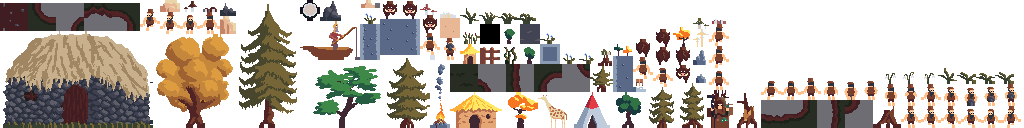
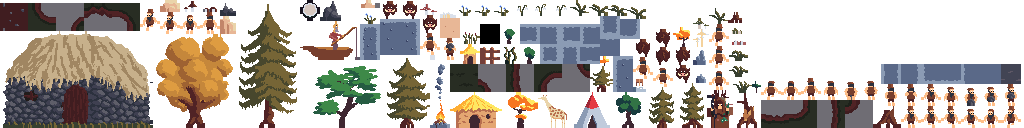
wall morphing

diff --git a/core/src/cz/shroomware/diorama/engine/level/prototype/WallPrototype.java b/core/src/cz/shroomware/diorama/engine/level/prototype/WallPrototype.java
@@ -3,6 +3,8 @@ package cz.shroomware.diorama.engine.level.prototype;
 import com.badlogic.gdx.graphics.g2d.TextureRegion;
 import com.badlogic.gdx.math.Quaternion;
 
+import java.util.HashMap;
+
 import cz.shroomware.diorama.engine.level.Resources;
 import cz.shroomware.diorama.engine.level.object.GameObject;
 import cz.shroomware.diorama.engine.level.object.WallObject;
@@ -13,7 +15,7 @@ public class WallPrototype extends Prototype {
     TextureRegion regionConnectedLeft;
     TextureRegion regionConnectedRight;
     TextureRegion regionConnectedBoth;
-    TextureRegion top;
+    HashMap<String, TextureRegion> topRegions = new HashMap<>();
 
     public WallPrototype(Resources resources) {
         this.resources = resources;
@@ -21,7 +23,23 @@ public class WallPrototype extends Prototype {
         this.regionConnectedLeft = resources.getObjectAtlas().findRegion("wall_left");
         this.regionConnectedRight = resources.getObjectAtlas().findRegion("wall_right");
         this.regionConnectedBoth = resources.getObjectAtlas().findRegion("wall_both");
-        this.top = resources.getObjectAtlas().findRegion("wall_top");
+
+        for (int a = 0; a < 2; a++) {
+            for (int b = 0; b < 2; b++) {
+                for (int c = 0; c < 2; c++) {
+                    for (int d = 0; d < 2; d++) {
+                        String name = (a == 0 ? "o" : "x") +
+                                (b == 0 ? "o" : "x") +
+                                (c == 0 ? "o" : "x") +
+                                (d == 0 ? "o" : "x");
+
+                        TextureRegion region = resources.getObjectAtlas().findRegion("wall_top_" + name);
+
+                        topRegions.put(name, region);
+                    }
+                }
+            }
+        }
     }
 
     @Override
@@ -51,7 +69,7 @@ public class WallPrototype extends Prototype {
     @Override
     public boolean dependenciesFulfilled() {
         return region != null &&
-                top != null &&
+                topRegions.size() == 16 &&
                 regionConnectedLeft != null &&
                 regionConnectedRight != null &&
                 regionConnectedBoth != null;
@@ -78,8 +96,8 @@ public class WallPrototype extends Prototype {
         return region;
     }
 
-    public TextureRegion getTop() {
-        return top;
+    public HashMap<String, TextureRegion> getTop() {
+        return topRegions;
     }
 
     public TextureRegion getRegion() {

diff --git a/core/src/cz/shroomware/diorama/engine/level/object/WallObject.java b/core/src/cz/shroomware/diorama/engine/level/object/WallObject.java
@@ -7,6 +7,8 @@ import com.badlogic.gdx.graphics.g3d.decals.MinimalisticDecalBatch;
 import com.badlogic.gdx.math.Vector3;
 import com.badlogic.gdx.math.collision.BoundingBox;
 
+import java.util.HashMap;
+
 import cz.shroomware.diorama.engine.level.Floor;
 import cz.shroomware.diorama.engine.level.Tile;
 import cz.shroomware.diorama.engine.level.prototype.WallPrototype;
@@ -19,13 +21,15 @@ public class WallObject extends GameObject {
     TextureRegion regionConnectedLeft;
     TextureRegion regionConnectedRight;
     TextureRegion regionConnectedBoth;
+    HashMap<String, TextureRegion> topRegions;
 
     public WallObject(Vector3 position, WallPrototype prototype) {
-        super(position, prototype.getTop(), prototype);
+        super(position, prototype.getTop().get("oooo"), prototype);
         region = prototype.getRegion();
         regionConnectedLeft = prototype.getRegionConnectedLeft();
         regionConnectedRight = prototype.getRegionConnectedRight();
         regionConnectedBoth = prototype.getRegionConnectedBoth();
+        topRegions = prototype.getTop();
 
         decal.setRotationX(0);
         decal.setZ(prototype.getLeftRegion().getRegionHeight() / PIXELS_PER_METER);
@@ -149,5 +153,22 @@ public class WallObject extends GameObject {
                 right.setTextureRegion(region);
             }
         }
+
+        boolean up, right, down, left;
+        tile = floor.getTileByOffset(tileAttachedTo, 0, 1);
+        up = (tile != null && tile.hasAttachedObject());
+        tile = floor.getTileByOffset(tileAttachedTo, 1, 0);
+        right = (tile != null && tile.hasAttachedObject());
+        tile = floor.getTileByOffset(tileAttachedTo, 0, -1);
+        down = (tile != null && tile.hasAttachedObject());
+        tile = floor.getTileByOffset(tileAttachedTo, -1, 0);
+        left = (tile != null && tile.hasAttachedObject());
+
+        String name = (up ? "x" : "o") +
+                (right ? "x" : "o") +
+                (down ? "x" : "o") +
+                (left ? "x" : "o");
+
+        decal.setTextureRegion(topRegions.get(name));
     }
 }

diff --git a/core/src/cz/shroomware/diorama/engine/level/Level.java b/core/src/cz/shroomware/diorama/engine/level/Level.java
@@ -29,7 +29,7 @@ public class Level {
     public Level(String filename, Prototypes gameObjectPrototypes, Resources resources) {
         this.filename = filename;
         floor = new Floor(resources.getObjectAtlas().findRegion("floor"));
-        gameObjects = new cz.shroomware.diorama.engine.level.object.GameObjects();
+        gameObjects = new GameObjects();
         loadIfExists(gameObjectPrototypes, resources.getObjectAtlas());
     }
 
@@ -43,6 +43,8 @@ public class Level {
             floor.load(bufferedReader, atlas);
             gameObjects.load(bufferedReader, gameObjectPrototypes, floor);
 
+            floor.updateSurroundings();
+
             try {
                 bufferedReader.close();
                 inputStreamReader.close();
@@ -55,6 +57,7 @@ public class Level {
             // Save as new if level file doesn't exist
             save(true);
         }
+
 
         return false;
     }

diff --git a/core/src/cz/shroomware/diorama/editor/EditorTool.java b/core/src/cz/shroomware/diorama/editor/EditorTool.java
@@ -122,6 +122,7 @@ public class EditorTool {
         Tile tile = gameObject.getTileAttachedTo();
         if (tile != null) {
             tile.detachObject();
+            floor.updateSurroundings();
         }
         gameObjects.remove(gameObject);
 
